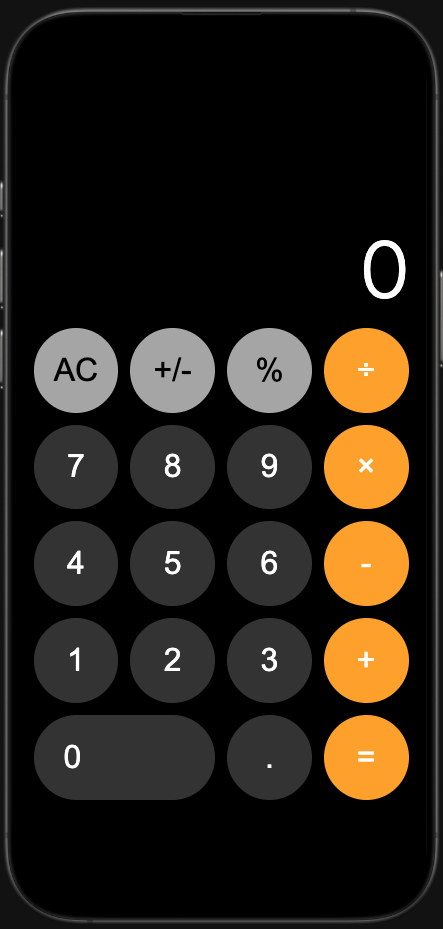
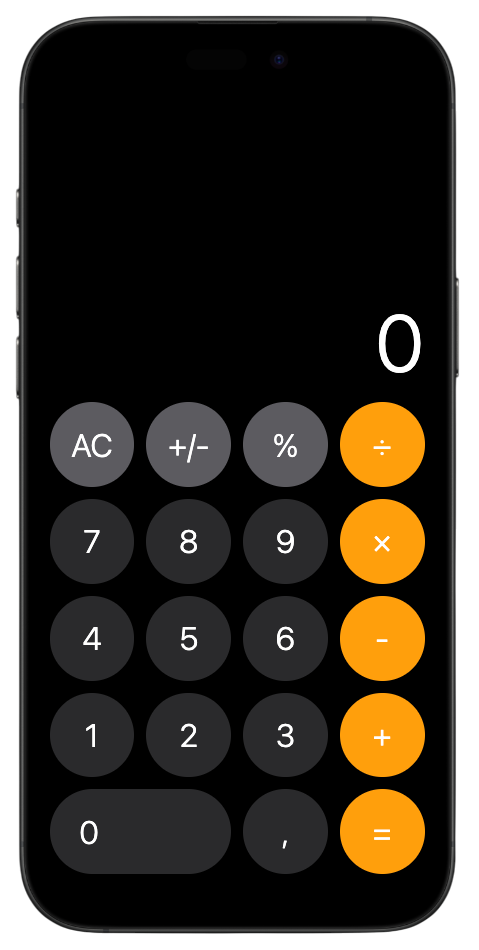
Fix mobile resolution && update main repo screen

diff --git a/src/components/Calculator/styles.module.css b/src/components/Calculator/styles.module.css
@@ -7,7 +7,6 @@
     display: flex;
     flex-direction: column;
     box-sizing: border-box;
-    box-shadow: 0 10px 50px rgba(0, 0, 0, 0.5);
 }
 
 .display {
@@ -35,7 +34,7 @@
 }
 
 .previousOperation {
-    font-size: 24px;
+    font-size: clamp(16px, 5vw, 24px);
     color: rgba(255, 255, 255, 0.6);
     height: 28px;
     line-height: 1;
@@ -47,7 +46,7 @@
 }
 
 .currentValue {
-    font-size: 80px;
+    font-size: clamp(32px, 10vw, 80px);
     font-weight: 300;
     line-height: 1;
     overflow: hidden;
@@ -66,11 +65,14 @@
 }
 
 .button {
+    min-width: 20vw;
+    min-height: 20vw;
+    font-size: 6vw;
+    touch-action: manipulation;
     width: 100%;
     aspect-ratio: 1;
     border-radius: 50%;
     border: none;
-    font-size: 32px;
     font-weight: 300;
     cursor: pointer;
     display: flex;
@@ -128,9 +130,10 @@
 
 @media (max-width: 768px) {
     .calculator {
-        max-width: 100%;
+        transform: scale(var(--mobile-scale));
         height: 100vh;
-        border-radius: 0;
+        max-width: 100vw;
+        padding: 25px 0;
     }
 
     .previousOperation, .currentOperation {
@@ -141,7 +144,20 @@
         font-size: 64px;
     }
 
+    .displayValue {
+        font-size: calc(64px * var(--mobile-scale));
+    }
+
     .button {
-        font-size: 28px;
+        font-size: calc(32px * var(--mobile-scale));
+        min-height: calc(80px * var(--mobile-scale));
+    }
+}
+
+@media (min-width: 768px) {
+    .button {
+        min-width: 80px;
+        min-height: 80px;
+        font-size: 32px;
     }
 }

diff --git a/index.html b/index.html
@@ -2,7 +2,7 @@
 <html lang="en">
   <head>
     <meta charset="UTF-8" />
-    <meta name="viewport" content="width=device-width, initial-scale=1" />
+    <meta name="viewport" content="width=device-width, initial-scale=1.0, maximum-scale=1.0, user-scalable=no, viewport-fit=cover">
     <link rel="shortcut icon" href="/icons/favicon.ico" />
     <link rel="icon" type="image/svg+xml" href="/icons/favicon.svg" />
     <meta name="description" content="React iOS calculator" />

diff --git a/src/assets/styles/global.css b/src/assets/styles/global.css
@@ -4,6 +4,16 @@
     box-sizing: border-box;
 }
 
+:root {
+    --mobile-scale: calc(100vw / 375);
+}
+
+@media (max-width: 768px) {
+    html {
+        font-size: calc(16px * var(--mobile-scale));
+    }
+}
+
 body {
     font-family: -apple-system, BlinkMacSystemFont, 'SF Pro Display', sans-serif;
     background-color: #000000;
